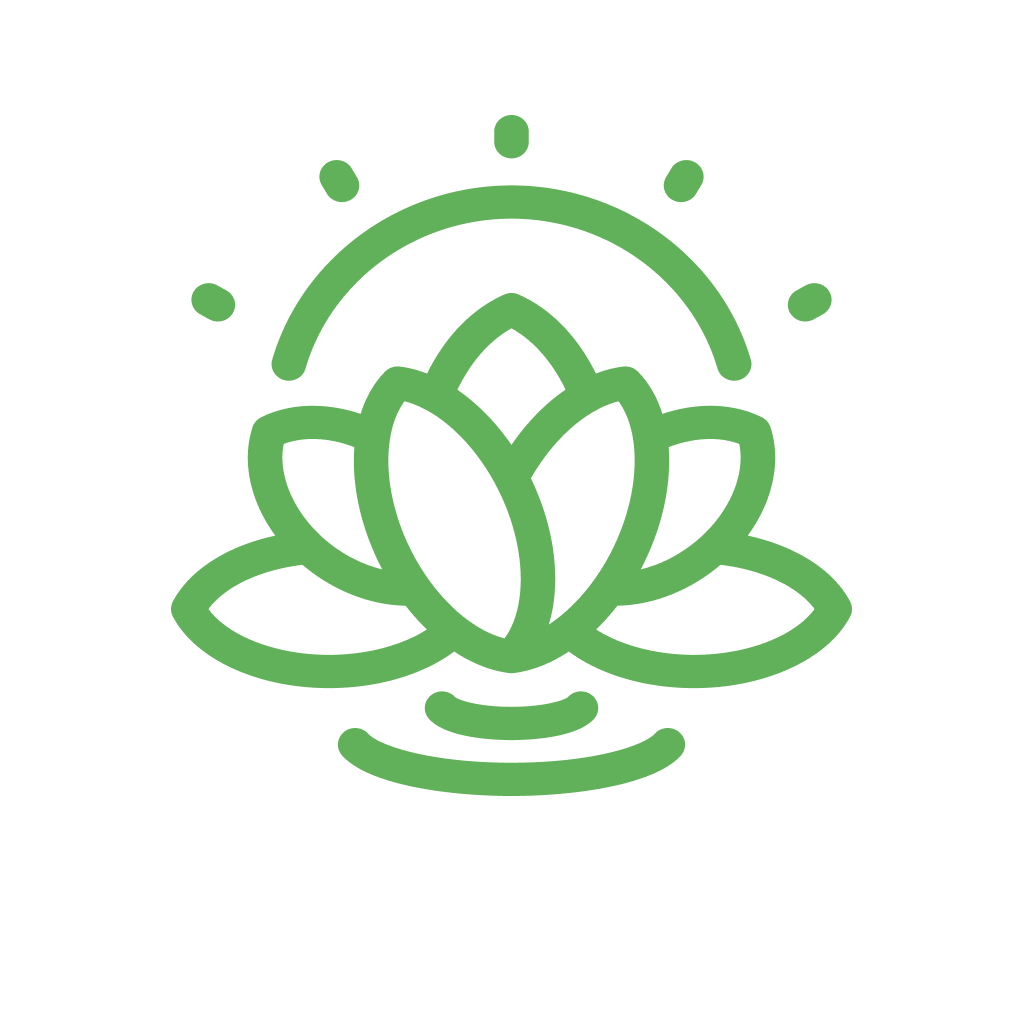
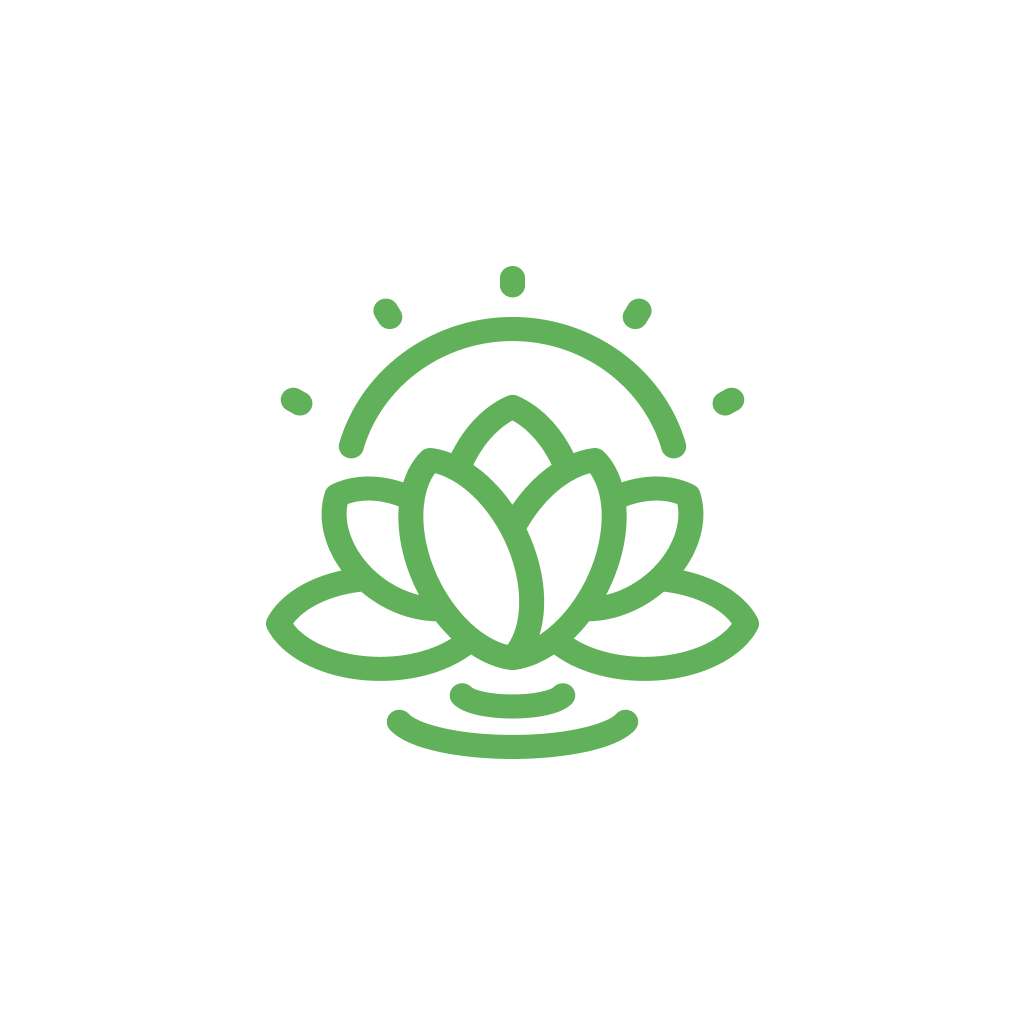
add new headers and update splash screen with iocn app

Changed region(s): [[0.1562, 0.0938, 0.8438, 0.7812], [0.75, 0.2812, 0.8125, 0.3125], [0.1875, 0.2812, 0.25, 0.3125]]

diff --git a/components/header/Header.tsx b/components/header/Header.tsx
@@ -1,65 +1,63 @@
-import React from 'react';
-import { View, Text, TouchableOpacity } from 'react-native';
-import { StyleSheet } from 'react-native';
-
-type HeaderButton = {
-  child: JSX.Element;
-  onPress?: () => void;
-};
+import React from "react";
+import { View, TouchableOpacity, StyleSheet } from "react-native";
+import { FontAwesomeIcon } from "@fortawesome/react-native-fontawesome";
+import { faArrowLeftLong } from "@fortawesome/free-solid-svg-icons";
+import { useNavigation } from "@react-navigation/native";
+import { IconProp } from "@fortawesome/fontawesome-svg-core";
+import { makeStyles, useAppTheme } from "@/theme/makeStyles";
+import { useSafeAreaInsets } from "react-native-safe-area-context";
+import { Text } from "react-native-paper";
 
 type Props = {
-  leftButton?: HeaderButton;
-  rightButton?: HeaderButton;
-	middleButton?: HeaderButton;
-};
+  title: string;
+  leftIcon?: IconProp;
+  onLeftPress?: () => void;
+}
 
- const Header = (props: Props) => {
-  const {leftButton, rightButton, middleButton} = props;
+export default function Header({ title, leftIcon = faArrowLeftLong as any, onLeftPress }: Props) {
+  const navigation = useNavigation();
+  const insets = useSafeAreaInsets();
+  const styles = useStyles({ insets });
+  const theme = useAppTheme();
 
   return (
-    <View style={styles.container}>
-      <View style={styles.leftContainer}>
-        {leftButton && (
-          <TouchableOpacity onPress={leftButton.onPress}>
-            {leftButton.child}
-          </TouchableOpacity>
-        )}
-      </View>
-			{middleButton && <Text style={styles.middleContainer}>{middleButton.child}</Text>}
-      <View style={styles.rightContainer}>
-        {rightButton && (
-          <TouchableOpacity onPress={rightButton.onPress}>
-            {rightButton.child}
-          </TouchableOpacity>
-        )}
-      </View>
+    <View style={styles.header}>
+      {leftIcon && (
+        <TouchableOpacity
+          onPress={onLeftPress ? onLeftPress : () => navigation.goBack()}
+          style={styles.iconButton}
+        >
+          <FontAwesomeIcon icon={leftIcon} size={20} color="" />
+        </TouchableOpacity>
+      )}
+      <Text variant="headlineMedium" style={styles.title}>{title}</Text>
+      <View testID="rightPlaceholder" style={styles.rightPlaceholder} />
     </View>
   );
-};
+}
 
 
-export default Header;
+const useStyles = makeStyles((theme: any, props?: { insets: any }) => {
+  const { insets } = props || { insets: { top: 0, bottom: 0 } };
+  return {
+    header: {
+      flexDirection: "row",
+      alignItems: "center",
+      justifyContent: "space-between",
+      paddingVertical: insets.top + theme.spacingVertical(2),
+      paddingHorizontal: theme.spacingHorizontal(4),
+    },
+    iconButton: {
+      // padding: 10,
+    },
+    title: {
+      color: theme.colors.neutralVariants[900],
+      flex: 1,
+      textAlign: "center",
+    },
+    rightPlaceholder: {
+      // width: 40,
+    },
 
-const styles = StyleSheet.create({
-  container: {
-    flexDirection: 'row',
-    alignItems: 'center',
-    justifyContent: 'space-between',
-    paddingVertical: 16,
-    paddingHorizontal: 20,
-  },
-  leftContainer: {
-    flex: 1,
-    alignItems: 'flex-start',
-  },
-  rightContainer: {
-    flex: 1,
-    alignItems: 'flex-end',
-  },
-  middleContainer: {
-    flex: 1,
-    alignItems: 'center',
-		textAlign: 'center',
-    color: 'black',
-  },
+  }
 });

diff --git a/theme/index.ts b/theme/index.ts
@@ -50,90 +50,6 @@ export interface theme extends MD3Theme {
 	fonts: { [key: string]: unknown };
 
 }
-
-export const arabicFonts = {
-	displaySmall: {
-		fontFamily: "Vazirmatn-Black",
-		fontSize: 30,
-		letterSpacing: 0,
-	},
-
-	displayMedium: {
-		fontFamily: "Vazirmatn-Black",
-		fontSize: 35,
-		letterSpacing: 0,
-	},
-	displayLarge: {
-		fontFamily: "Vazirmatn-Black",
-		fontSize: 35,
-		letterSpacing: 0,
-	},
-
-	headlineLarge: {
-		fontFamily: "Vazirmatn-Bold",
-		fontSize: 32,
-		letterSpacing: 0,
-	},
-	headlineMedium: {
-		fontFamily: "Vazirmatn-Bold",
-		fontSize: 28,
-		letterSpacing: 0,
-	},
-	headlineSmall: {
-		fontFamily: "Vazirmatn-Bold",
-		fontSize: 24,
-		letterSpacing: 0,
-	},
-
-	titleLarge: {
-		fontFamily: "Vazirmatn-SemiBold",
-		fontSize: 22,
-		letterSpacing: 0,
-	},
-	titleMedium: {
-		fontFamily: "Vazirmatn-SemiBold",
-		fontSize: 16,
-		letterSpacing: 0,
-	},
-	titleSmall: {
-		fontFamily: "Vazirmatn-SemiBold",
-		fontSize: 14,
-		letterSpacing: 0,
-	},
-
-	labelLarge: {
-		fontFamily: "Vazirmatn-Medium",
-		fontSize: 14,
-		fontWeight: "500",
-		letterSpacing: 0,
-	},
-	labelMedium: {
-		fontFamily: "Vazirmatn-Medium",
-		fontSize: 12,
-		letterSpacing: 0,
-	},
-	labelSmall: {
-		fontFamily: "Vazirmatn-Medium",
-		fontSize: 11,
-		letterSpacing: 0,
-	},
-
-	bodyLarge: {
-		fontFamily: "Vazirmatn-Regular",
-		fontSize: 16,
-		letterSpacing: 0,
-	},
-	bodyMedium: {
-		fontFamily: "Vazirmatn-Regular",
-		fontSize: 14,
-		letterSpacing: 0,
-	},
-	bodySmall: {
-		fontFamily: "Vazirmatn-Regular",
-		fontSize: 12,
-		letterSpacing: 0,
-	},
-};
 export const englishFonts = {
 	displaySmall: {
 		fontFamily: "Quicksand-Bold",
@@ -245,7 +161,7 @@ const theme = {
 	},
 	spacingHorizontal: (index: number) => ms([0, 4, 8, 12, 16, 24, 32, 48, 56, 64, 72, 80, 96, 128][index], GLOBAL_SCALE),
 	spacingVertical: (index: number) => mvs([0, 4, 8, 12, 16, 24, 32, 48, 56, 64, 72, 80, 96, 128][index], GLOBAL_SCALE),
-	fonts: arabicFonts,
+	fonts: englishFonts
 };
 
 const lightVariants = {
@@ -257,7 +173,7 @@ const lightVariants = {
 		"200": "#96EED9",
 		"300": "#61E5C6",
 		"400": "#2DDCB3",
-		"500": "#1DB18E",
+		"500": "#61B15A",
 		"600": "#178C71",
 		"700": "#116955",
 		"800": "#0C4638",
@@ -323,7 +239,7 @@ const darkVariants = {
 		"200": "#96EED9",
 		"300": "#61E5C6",
 		"400": "#2DDCB3",
-		"500": "#1DB18E",
+		"500": "#61B15A",
 		"600": "#178C71",
 		"700": "#116955",
 		"800": "#0C4638",
@@ -385,10 +301,10 @@ const lightTheme: theme = {
 	colors: {
 		...DefaultTheme.colors,
 		...lightVariants,
-		primary: "#1DB18E",
+		primary: "#61B15A",
 		onPrimary: "#FFFFFF",
 		primaryContainer: "#E5FBF6",
-		onPrimaryContainer: "#1DB18E",
+		onPrimaryContainer: "#61B15A",
 
 		secondary: "#FFB500",
 		onSecondary: "#FFFFFF",
@@ -422,7 +338,7 @@ const darkTheme: theme = {
 	colors: {
 		...DefaultTheme.colors,
 		...darkVariants,
-		primary: "#1DB18E",
+		primary: "#61B15A",
 		onPrimary: "#161622",
 		primaryContainer: "#06231C",
 		onPrimaryContainer: "#2DDCB3",

diff --git a/app/index.tsx b/app/index.tsx
@@ -25,7 +25,7 @@ const WelcomScreen = () => {
 
   return (
     <View style={styles.container}>
-      <Image source={require("../assets/images/man.png")} resizeMode="contain" style={styles.bannerImage} />
+      <Image source={require("../assets/images/logo.png")} resizeMode="contain" style={styles.bannerImage} />
       <View style={styles.contentContainer}>
         <Text variant="headlineMedium" style={styles.title}>Welcome to Meditation</Text>
         <Text variant="bodyLarge" style={styles.description}>
@@ -36,13 +36,13 @@ const WelcomScreen = () => {
             middleText={"Login"}
             onPress={() => navigation.navigate(NavigationRoutes.LOGIN)}
             containerStyle={styles.loginButton}
-            middleTextStyle={{ color: theme.colors.neutralVariants[900] }}
+            middleTextStyle={{ color: theme.colors.neutralVariants[900], fontSize: mvs(16, GLOBAL_SCALE) }}
           />
           <ContinueButton
             middleText={"Register"}
             onPress={() => navigation.navigate(NavigationRoutes.REGISTER)}
             containerStyle={styles.loginButton}
-            middleTextStyle={{ color: theme.colors.neutralVariants[900] }}
+            middleTextStyle={{ color: theme.colors.neutralVariants[900], fontSize: mvs(16, GLOBAL_SCALE) }}
           />
         </View>
       </View>
@@ -61,7 +61,7 @@ const useStyles = makeStyles((theme: any, props?: { insets: any }) => {
       flex: 1,
       backgroundColor: theme.colors.background,
       alignItems: "center",
-      paddingTop: insets.top + theme.spacingVertical(8),
+      paddingTop: insets.top + theme.spacingVertical(5),
     },
     bannerImage: {
       height: mvs(200, GLOBAL_SCALE),
@@ -76,21 +76,22 @@ const useStyles = makeStyles((theme: any, props?: { insets: any }) => {
       paddingHorizontal: theme.spacingHorizontal(4),
       borderTopLeftRadius: theme.borderRadius.large,
       borderTopRightRadius: theme.borderRadius.large,
-
+      marginTop: theme.spacingVertical(12),
     },
     title: {
-      color: theme.colors.background,
+      color: theme.colors.tertiaryVariants[900],
       textAlign: "center",
     },
     description: {
-      color: theme.colors.background,
+      color: theme.colors.tertiaryVariants[900],
       textAlign: "center",
+
     },
     loginButton: {
       backgroundColor: theme.colors.background,
     },
     buttonContainer: {
-      marginTop: theme.spacingVertical(12),
+      marginTop: theme.spacingVertical(5),
       width: "100%",
       paddingHorizontal: theme.spacingHorizontal(2),
       gap: theme.spacingVertical(4),

diff --git a/hooks/init.ts b/hooks/init.ts
@@ -13,23 +13,6 @@ export default function useInit() {
 		"Quicksand-Medium": require("@/assets/fonts/Quicksand/Quicksand-Medium.ttf"),
 		"Quicksand-Bold": require("@/assets/fonts/Quicksand/Quicksand-Bold.ttf"),
 		"Quicksand-SemiBold": require("@/assets/fonts/Quicksand/Quicksand-SemiBold.ttf"),
-
-		"Vazirmatn-Black": require("@/assets/fonts/Vazirmatn/Vazirmatn-Black.ttf"),
-		"Vazirmatn-Bold": require("@/assets/fonts/Vazirmatn/Vazirmatn-Bold.ttf"),
-		"Vazirmatn-Light": require("@/assets/fonts/Vazirmatn/Vazirmatn-Light.ttf"),
-		"Vazirmatn-Regular": require("@/assets/fonts/Vazirmatn/Vazirmatn-Regular.ttf"),
-		"Vazirmatn-Thin": require("@/assets/fonts/Vazirmatn/Vazirmatn-Thin.ttf"),
-		"Vazirmatn-Medium": require("@/assets/fonts/Vazirmatn/Vazirmatn-Medium.ttf"),
-		"Vazirmatn-ExtraBold": require("@/assets/fonts/Vazirmatn/Vazirmatn-ExtraBold.ttf"),
-		"Vazirmatn-ExtraLight": require("@/assets/fonts/Vazirmatn/Vazirmatn-ExtraLight.ttf"),
-		"Vazirmatn-SemiBold": require("@/assets/fonts/Vazirmatn/Vazirmatn-SemiBold.ttf"),
-
-		"OpenSans-Bold": require("@/assets/fonts/OpenSans/OpenSans-Bold.ttf"),
-		"OpenSans-ExtraBold": require("@/assets/fonts/OpenSans/OpenSans-ExtraBold.ttf"),
-		"OpenSans-Light": require("@/assets/fonts/OpenSans/OpenSans-Light.ttf"),
-		"OpenSans-Regular": require("@/assets/fonts/OpenSans/OpenSans-Regular.ttf"),
-		"OpenSans-SemiBold": require("@/assets/fonts/OpenSans/OpenSans-SemiBold.ttf"),
-		"OpenSans-Medium": require("@/assets/fonts/OpenSans/OpenSans-Medium.ttf"),
 	});
 
 

diff --git a/app/login.tsx b/app/login.tsx
@@ -15,6 +15,8 @@ import { useSafeAreaInsets } from "react-native-safe-area-context";
 import { useCustomNavigation } from "@/hooks/navigation";
 import { NavigationRoutes } from "@/constants/navigation";
 import { Ionicons, SimpleLineIcons } from "@expo/vector-icons";
+import Header from "@/components/header/Header";
+
 
 const LoginScreen = () => {
   const insets = useSafeAreaInsets();
@@ -42,6 +44,9 @@ const LoginScreen = () => {
 
   return (
     <View style={styles.container}>
+      <Header
+        title="Login"
+      />
     </View>
   );
 };
@@ -55,7 +60,7 @@ const useStyles = makeStyles((theme: any, props?: { insets: any }) => {
       flex: 1,
       backgroundColor: theme.colors.background,
       alignItems: "center",
-      paddingTop: insets.top + theme.spacingVertical(8),
+      paddingTop: insets.top + theme.spacingVertical(4),
 
     }
 
